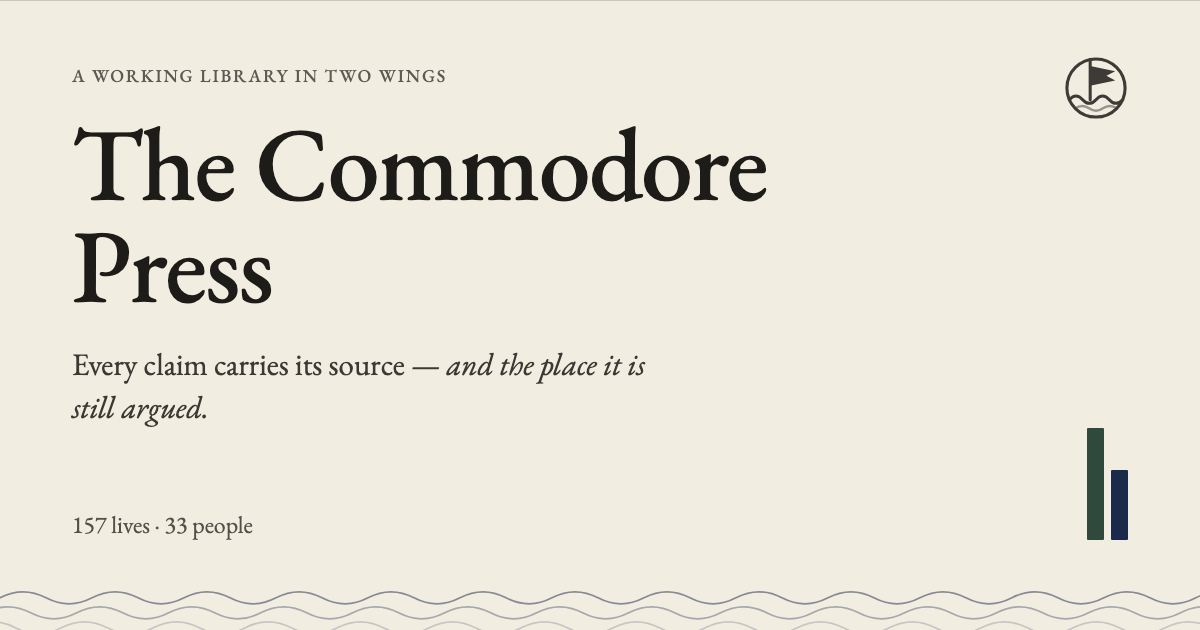
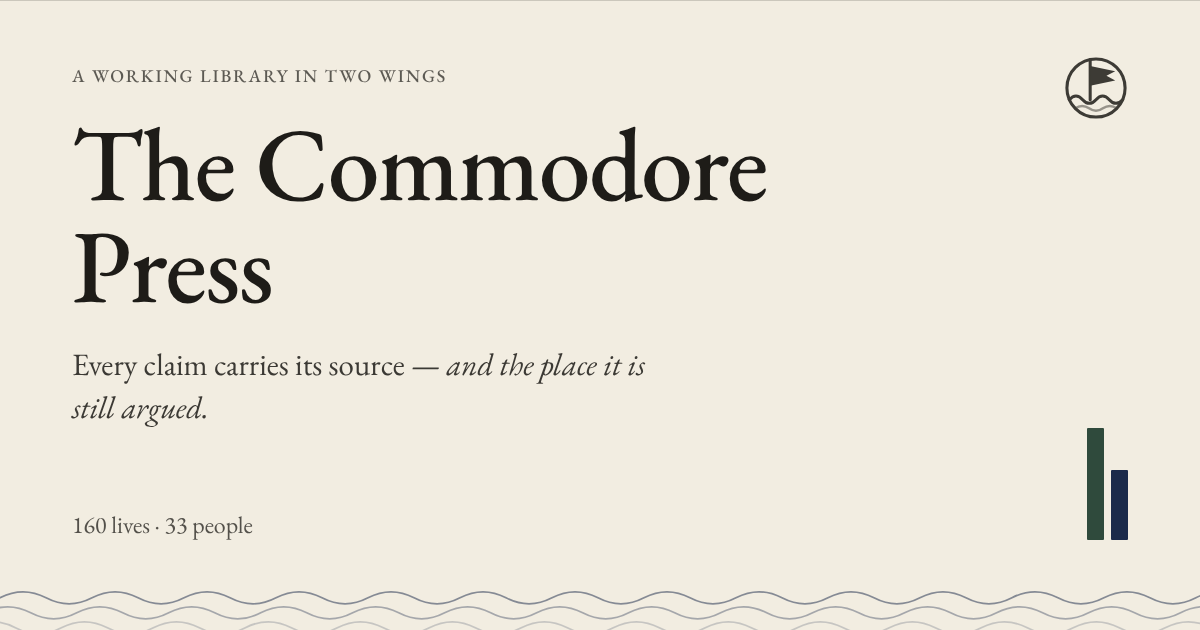
Three lives, № 158–160: Ernest Hemingway, Yo-Yo Ma, Jiro Ono
Each fixes the popular version from a page opened and read:

- Hemingway: the six-word "baby shoes" story is not his. Quote
  Investigator traces the form to a 1906 Michigan classified and a 1917
  title by William R. Kane; his name first appears in De Groot's play
  Papa (copyright 1984) and in Miller's 1991 book, which dates the
  anecdote to c. 1974, thirteen years after his death.
- Yo-Yo Ma: at the 2009 inauguration the quartet did play, unamplified,
  but the broadcast carried a tape made two days earlier, and it was the
  only act to choose that (AP via NBC; CBS).
- Jiro Ono: Michelin did not strip the stars; it left the Ginza counter
  out of Tokyo 2020 because general clientele could no longer book
  (Japan Times). The film's meal was shot outside business hours (NPR).

Plates: Yo-Yo Ma from a US State Department photo (PD, 17 U.S.C. 105);
Jiro Ono cropped from Pete Souza's 2014 White House photo (PD; Obama and
Abe cropped out). The duotone was made by a Python port of plate.mjs,
which needs macOS sips. Hemingway's passport photo (NARA, PD) was chosen
but Wikimedia returned 429 on every request, so he carries the press mark
for now.

Reciprocal links added on Mark Twain and Soichiro Honda. Only the three
new share cards and the front door's card are committed; the other cards
re-rendered on Linux were restored rather than shipped as noise.

npm test: the same five book-flight timing tests fail with and without
[…]

diff --git a/dashboard/commissions.md b/dashboard/commissions.md
@@ -24,7 +24,7 @@ in it carries a named source.
 | ready | Lives | Three more from *The Lessons of History*, № 155–157: Diocletian, Augustus, Ashoka | Picked by Luca 2026-11-03. Diocletian: the Durants have him say 'the barbarians were at the gate'; his Price Edict's own preamble (Kropff translation) opens on barbarian wars already won and names the soldier who loses his pay on one purchase; the failure rests on Lactantius alone, who also says the abdication was forced. Augustus: the advice to stop at the frontiers came after Varus lost three legions (Suetonius 23) and was read from a register in his own hand after his death (Tacitus 1.11), beside a Res Gestae that boasts of extending every frontier. Ashoka: Rock Edict XIII's count and remorse were left off the rocks in Kalinga itself, where XI–XIII were replaced by two special edicts (ASI documentation, Dhauli). Plates: Met CC0 aureus (293) and Met CC0 marble head; Cunningham's 1877 drawing of the Dhauli First Separate Edict, PD-old | `research-leads.md`, 2026-11-03 | Luca: read them. Hammurabi is the last of the scouted ancients |
 | ready | Lives | Four from *The Lessons of History*, № 151–154: Solon, Pericles, Wang Mang, Tiberius Gracchus | Picked by Luca 2026-11-03 from the scouting row. Each fixes the Durants' one-line case from the ancient text they compress, read as raw text. Solon: the friends who borrowed before the decree (Plutarch 15), and the debt relief argued both ways in antiquity; no 'twelve times' tax in Plutarch or the *Athenian Constitution*. Pericles: jury pay as a bid against Cimon's fortune (*Ath. Pol.* 27), and the citizenship law he had to ask the city to waive for his own son (Plutarch 37); 'the aristocracy prevailed' is one reading of three. Wang Mang: the AD 9 edict renamed slaves, and he lifted the ban on sales himself in AD 12 (Han shu 99B, Chinese text; Hu Shih 1922 quotes it), not his killers. Gracchus: the first law paid compensation; the confiscating one answered Octavius's veto (Plutarch 9–10). The scouting memo's '333 acres unexplained' was dropped: the Loeb's 'acres' renders an ancient measure, so the two may be one limit. Plates: Solon and Gracchus Rouillé 1553 (PD-old, captioned as imagined likenesses), Pericles Vatican bust (Jastrow, PD-self), Wang Mang a spade coin (CC0) | `research-leads.md`, 2026-11-03 | Luca: read them; then Diocletian, Augustus, Ashoka, Hammurabi when he wants the next four |
 | idea | Lives | More from Founders: Horace and John Dodge, Hans Wilsdorf, Sol Price; then Mozart, Socrates, Alexander, the Michelins | Scouted 2026-11-03 from the full feed (463 episodes). Dodge is the strongest: *Dodge v. Ford* (204 Mich. 459, opened) is the case cited for shareholder primacy, and the court left Ford's expansion alone and affirmed only the dividend. Wilsdorf: the 1927 Channel swim with the Oyster was abandoned (Sotheby's, opened); the advert of 24 November 1927 still to open. Sol Price: a trade-press source now dates FedMart, 3 December 1954 — not yet a primary. Unscouted but confirmed episodes: Oppenheimer, Escoffier, Royce, Kroc, Sloan, Mayer, Frank Lloyd Wright | `research-leads.md`, 2026-11-03 | Luca: pick; the Dodge plate is PD in the US only, with no author — his call |
-| commissioned | Lives | Ernest Hemingway, Yo-Yo Ma, Jiro Ono | Asked for by Luca 2026-11-25. Each has a fix to test: the six-word "baby shoes" story is not Hemingway's; the 2009 inauguration quartet played to a recording made two days earlier; Sukiyabashi Jiro left Michelin in 2019 over reservations, not quality. None is confirmed: every fetch was refused on the Default environment, so nothing has been opened | `dashboard/research-leads.md`, 2026-11-25 | open the leads in an environment that can fetch, then write all three; the plates need licence boxes read |
+| ready | Lives | Ernest Hemingway, Yo-Yo Ma, Jiro Ono (№ 158–160) | Asked for by Luca 2026-11-25. Each fixes the popular version from a page opened and read. Hemingway: the six words are not his. Quote Investigator traces the form to a 1906 Ironwood News Record classified and a 1917 title by William R. Kane, and finds his name first in De Groot's play *Papa* (© 1984) and in Miller's 1991 book, which dates the anecdote to c. 1974. Yo-Yo Ma: the quartet did play on 20 January 2009, unamplified, but the broadcast carried a tape made two days earlier, and it was the only act to choose that (AP via NBC; CBS). Jiro Ono: Michelin did not strip the stars. It left the Ginza counter out of Tokyo 2020 because general clientele could no longer book (Japan Times, 26 Nov 2019). The film's meal was shot outside business hours (NPR review). Plates: Yo-Yo Ma from a US State Department photo, 20 Apr 2015 (PD, 17 U.S.C. §105). Jiro Ono cropped from Pete Souza's White House photo of 23 Apr 2014 (PD as a federal work); the White House asks that its photographs not be manipulated or used to suggest endorsement, which is a request rather than a licence term; Obama and Abe are cropped out. Hemingway's 1921 passport photo (NARA 192687, PD US DOS) was chosen, but every download was rate-limited (HTTP 429), so he carries the press mark for now | `dashboard/research-leads.md`, 2026-11-25 | Luca: read, then publish; make Hemingway's plate from the passport photo when Wikimedia serves it (`plate.mjs` needs macOS `sips`) |
 | idea | Lives | LGBTQ lives, mostly men: Rustin, Turing, Kameny, Hirschfeld, Alan L. Hart, Keynes | Asked for by Luca 2026-11-17: people of note, mostly men, who overcame long odds. Of 157 Lives, only Geffen's (№ 95) addresses it. Scouted the same day by a `press-researcher` sweep of 13 names. Each of the six has a fix from a document. **Rustin:** Newsom's EO N-24-20 (4 Feb 2020, opened) pardons a 1953 vagrancy conviction (§ 647.5) that, the order says, his opponents used against him. The 1960 threat to leak a false rumour was Adam Clayton Powell's, not Thurmond's (Thurmond's attack was 1963). LOC plate, Leffler, 27 Aug 1963, no known restrictions. **Turing:** the 2013 pardon (gov.uk, opened) covered him alone; the 2017 law for the others came later. The inquest's suicide verdict is contested (Copeland). Plate tag needs a second look. **Kameny:** fired by the Army Map Service 1957; *Kameny v. Brucker* cert denied 1961; OPM director Berry's 2009 letter of apology (text read; date unresolved). No PD plate. **Hirschfeld:** Institute opened 1919, looted 6 May 1933; who did it and when the books burned vary by source. **Hart:** trans man and physician, outed 1918 and forced to resign; later ran TB X-ray screening for Connecticut. The claim that he 'pioneered' X-ray screening is hedged even in his sources, and Saranac Lake used it by 1912. **Keynes:** best fit for the shelf, weakest on the odds. His UK stock portfolio returned 15.2% a year gross against 8.1% for 1924–46 (Chambers, Dimson & Foo, *JFQA* 2015), but that paper is still unopened. Held back: Halston, Hadrian, Glenn Burke (thin or off-shelf); Tom Ford, Tim Cook, Barry Diller, Pierre Bergé (living or privileged, little on the odds). | `research-leads.md`, section 2026-11-17 | Luca: pick which to write; decide whether the brief extends to living people (Cook, Ford, Diller) |
 | idea | Lives | Next candidates, unscouted | Luca asked on 2026-10-03 to find more. A scouting sweep for twelve names was cut off by a usage limit before it reported, so nothing here has been checked. Four have since been written — Rothschild (№ 115), Seacole (№ 105), Chanel (№ 99) and Morita (№ 94, which tells the Ibuka story) — and are struck from this list (2026-10-23). Mansa Musa, Cuffe and Maury have since been written (№ 142, 150, 141). Still unscouted: Takeo Fujisawa (who ran Honda) — he has no Founders episode (feed checked 2026-11-03) | each name's lead is in this cell; none opened | run the scout: one fix, one openable primary source and one lawful plate per name, then pick |
 | commissioned | Lives | Long Lives — one person, one book, read cover to cover | Asked for by Luca 2026-10-03: a place that tells people what is not mentioned enough, and goes all the way into it. It is the Founders episode in print, and the one thing the house cannot do without him: a biography read in full, by a named reader, with page numbers. That is also what makes it sourced — a page Luca read is an opened source; a book an agent could only search is a lead. **Proposed shape** (nothing built yet): a Long Life extends an existing Life — same id, plate and № — at `/l/<id>/long/`, written in Markdown like the Log (`content/lives/long/<id>.md`), signed and dated, in chapters: the situation · the turning points, each dated with its document · in their own words (verbatim, page-cited) · what the popular version gets wrong · what it cost · where it is contested · what I took from it (his, signed, held to the Log's rules) · what to read next. The three-paragraph Life stays as the index and gains one line: "The long version →". | the Life's own `bio` is the book; his reading notes with page numbers are the sources | Luca: pick the first book and read it with page numbers in the margin; decide the name (Long Lives is a working title). Then build the page type, its check (every quotation carries a page) and the first one together |

diff --git a/dashboard/research-leads.md b/dashboard/research-leads.md
@@ -714,3 +714,11 @@ Asked for by Luca 2026-11-25. Four `press-researcher` sweeps ran in parallel and
 - Scouting for more craft-and-art lives: one lead only. Julia Child and the OSS shark repellent (the popular version makes her its inventor; she is said to have worked as Harold Coolidge's assistant). Open cia.gov/stories/story/julia-child-and-the-oss-recipe-for-shark-repellent and Conant, *A Covert Affair* (2011). Names to scout once the network opens: Pablo Casals, Glenn Gould, Hokusai, Agatha Christie, Kurosawa, Fernand Point, Toni Morrison. Escoffier and Frank Lloyd Wright are already queued under Founders.
 
 **To close this out:** the hosts the sweeps needed: en.wikipedia.org, commons.wikimedia.org, upload.wikimedia.org, quoteinvestigator.com, www.nobelprize.org, www.nytimes.com, www.jfklibrary.org, www.pbs.org, www.japantimes.co.jp, guide.michelin.com, www.cbsnews.com, www.nbcnews.com, www.grammy.com, obamawhitehouse.archives.gov, www.npr.org, archive.org, www.loc.gov.
+
+### 2026-11-25, later the same day: the network opened
+
+Seventeen hosts were added to the environment (the service refused the NYT and AP), and the three Lives were written as № 158–160 from pages opened and read. What is still named but not opened:
+
+- `ernest-hemingway`: the 1958 *Paris Review* interview (blocked), source of the "39 times"; it is printed as his own count, relayed by Seán Hemingway on NPR. The JFK Library (Cloudflare block) for the Fossalta wound and the shrapnel count, which is not printed. Hotchner, NYT 2 Jul 2011, on the FBI file (Wayback blocked). The *Life* issue date for *The Old Man and the Sea* (1 Sep 1952?): the entry gives no date. *Green Hills of Africa* (1935), p. 22, for the line on *Huckleberry Finn*, which would strengthen the Twain link: the archive.org scan is served from a host not on the list. Mary V. Dearborn, *Ernest Hemingway: A Biography* (Knopf, 2017): the catalogue record was confirmed on archive.org, but no review was read, so the `bio` is the Burns–Novick film.
+- `yo-yo-ma`: the NYT of 22 Jan 2009, quoted through CBS and AP. The 1962 Bernstein–Kennedy pageant: Wikipedia only, so not printed. Marina Ma, *My Son, Yo-Yo* (1995): no catalogue record found, so the `bio` is the 1985 Grammy recording. A named critic of the tape, or of the crossover and Silkroad work: none found.
+- `jiro-ono`: Michelin's own 2019 statement (the guide's page renders empty without JavaScript), known only through the Japan Times paraphrase. The film's tamagoyaki story: in no source opened, and the entry says so. *Sushi: Jiro Gastronomy* (VIZ, 2016): not opened. The CC BY 2.0 City Foodsters photo was not viewed (429). The Hamamatsu–Tenryū question: AP says Hamamatsu, Wikipedia says Tenryū, now part of Hamamatsu.
